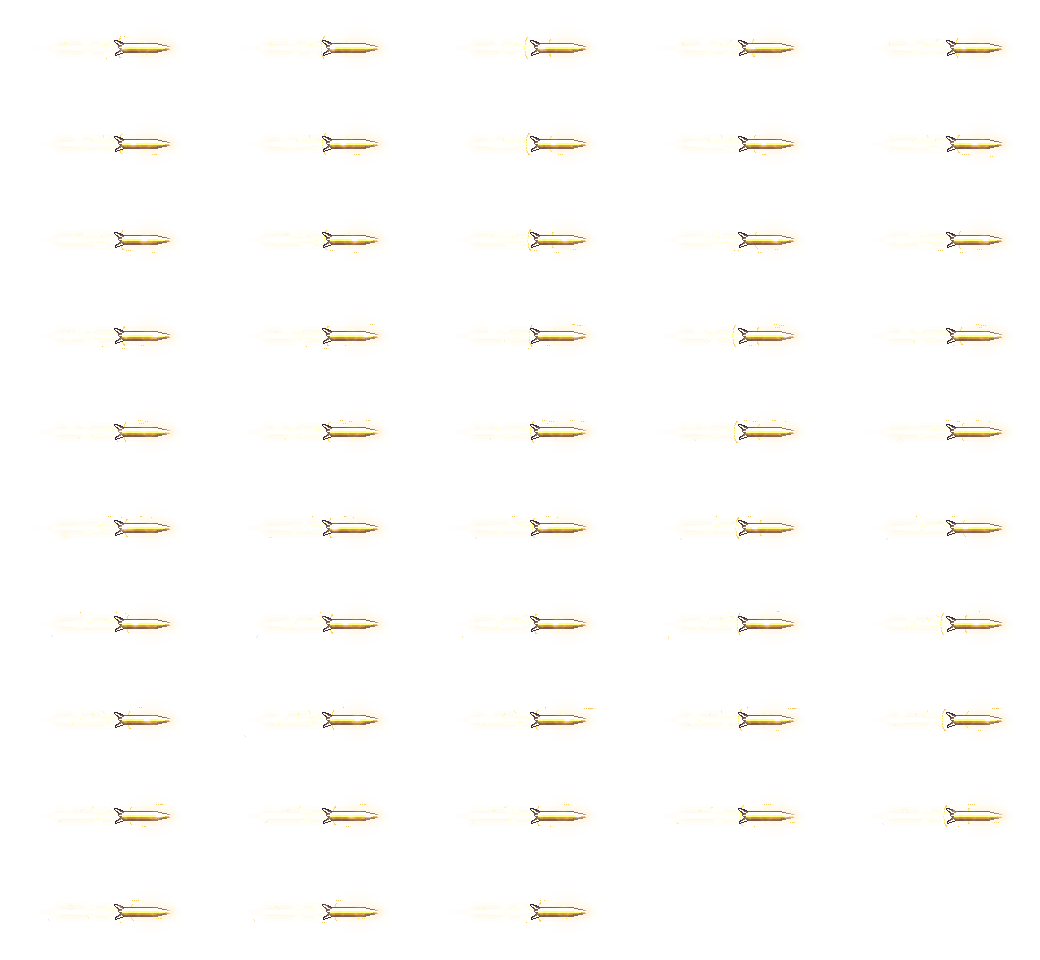
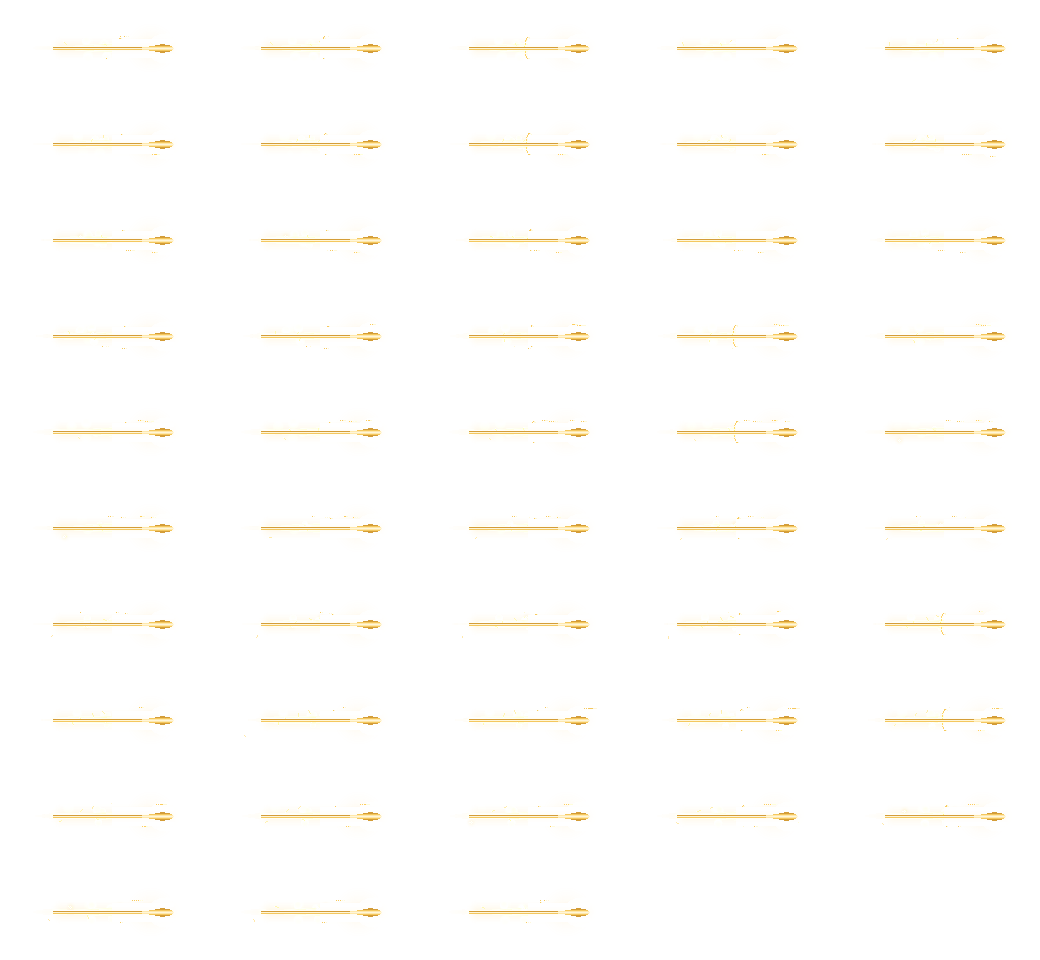
Refine Flash Executioner light spear effects

diff --git a/Art/flash-executioner/pixelfx/manual-corrections/lance/apply_spear_pixel_edit.py b/Art/flash-executioner/pixelfx/manual-corrections/lance/apply_spear_pixel_edit.py
@@ -1,0 +1,80 @@
+#!/usr/bin/env python3
+"""Apply the owner's hand-authored long/thin spear pixels to a 48-cell atlas."""
+from pathlib import Path
+import argparse
+import hashlib
+from PIL import Image
+
[1 lines of base64/hex data omitted]
+SHAFT = {
+    47: (53, 143, "#d49d38ff"),
+    48: (53, 143, "#fff6d9ff"),
+    49: (53, 143, "#f4c75eff"),
+}
+HEAD = {
+    44: (160, 164, "#d49d38ff"),
+    45: (155, 169, "#d49d38ff"),
+    46: (149, 171, "#f4c75eff"),
+    47: (142, 172, "#ffe8abff"),
+    48: (139, 173, "#fff6d9ff"),
+    49: (142, 172, "#ffe8abff"),
+    50: (149, 171, "#f4c75eff"),
+    51: (155, 169, "#d49d38ff"),
+    52: (160, 164, "#d49d38ff"),
+}
+
+
+def rgba(value):
+    return tuple(bytes.fromhex(value.lstrip("#")))
+
+
+def main():
+    parser = argparse.ArgumentParser()
+    parser.add_argument("source", type=Path, help="original approved 1040x960 RGBA atlas")
+    parser.add_argument("output", type=Path, help="new path; existing files are never overwritten")
+    args = parser.parse_args()
+    source_bytes = args.source.read_bytes()
+    if hashlib.sha256(source_bytes).hexdigest() != EXPECTED_SOURCE_SHA256:
+        raise SystemExit("Source hash mismatch; refusing to paint an unreviewed atlas")
+    if args.output.exists():
+        raise SystemExit("Output exists; choose a new review path")
+    image = Image.open(args.source).convert("RGBA")
+    if image.size != (1040, 960):
+        raise SystemExit(f"Expected 1040x960, got {image.size}")
+    for frame in range(48):
+        ox, oy = frame % 5 * 208, frame // 5 * 96
+        # Reduce the spherical tip bloom without changing the energy wake.
+        for y in range(32, 65):
+            for x in range(145, 188):
+                if ((x - 166) / 20) ** 2 + ((y - 48) / 15) ** 2 > 1:
+                    continue
+                X, Y = ox + x, oy + y
+                red, green, blue, alpha = image.getpixel((X, Y))
+                if 0 < alpha < 240:
+                    image.putpixel((X, Y), (red, green, blue, round(alpha * 0.20)))
+        # Clear the former broad blade and crossguard, preserving surrounding VFX.
+        for y in range(39, 58):
+            for x in range(112, 174):
+                X, Y = ox + x, oy + y
+                if image.getpixel((X, Y))[3]:
+                    image.putpixel((X, Y), (0, 0, 0, 0))
+        # Hand-paint a restrained warm glow under the narrow shaft so the old
+        # blade silhouette does not leave a hard transparent notch.
+        halo = {43: 6, 44: 10, 45: 16, 46: 24, 47: 32, 48: 36,
+                49: 32, 50: 24, 51: 16, 52: 10, 53: 6}
+        for y, alpha in halo.items():
+            for x in range(112, 174):
+                image.putpixel((ox + x, oy + y), (255, 232, 171, alpha))
+        # Deliberately authored 3-pixel shaft and tapered, bright point.
+        for rows in (SHAFT, HEAD):
+            for y, (x0, x1, color) in rows.items():
+                pixel = rgba(color)
+                for x in range(x0, x1 + 1):
+                    image.putpixel((ox + x, oy + y), pixel)
+    args.output.parent.mkdir(parents=True, exist_ok=True)
+    image.save(args.output)
+    print(hashlib.sha256(args.output.read_bytes()).hexdigest())
+
+
+if __name__ == "__main__":
+    main()

diff --git a/Art/flash-executioner/README.md b/Art/flash-executioner/README.md
@@ -20,9 +20,9 @@ Ultimate, idle, run, jump and fall now use the owner-reviewed motion sheets. Idl
 
 Actor sheets have192×192 cells, pivot70/133, scale1.4. `reviewed/manifest.json` records dimensions, frame counts, hashes and provenance. `review-approval.json` records the owner-reviewed additions and exact hashes. Clip rates are motion-specific: Idle 18.9 poses/s, Run 36.3 nominal poses/s, Jump 36.3 nominal poses/s, Fall 15 poses/s and Ultimate 22.3 poses/s. The runtime maps Ultimate contact to frame 16 and retains its unchanged .728s gameplay contact. All actor cells are 192×192 RGBA at pivot70/133 and scale1.4.
 
-The v2 mappings and options are in `pixelfx/manifest.json`. Original effect recipes and dependencies are byte-identical to the pinned upstream; source leaf hashes, MIT license and verification evidence are retained under `pixelfx/source-original/`. Variations use palette, exposed options, actual approved actor masks, uniform runtime scale, canvas registration and source-frame timing/selection. No new geometry recipes or hand-painted shapes were used. Each `pixelfx/variants/<Role>/` preserves a same-fps original baseline and exact frame map.
+The v2 mappings and options are in `pixelfx/manifest.json`. Original effect recipes and dependencies are byte-identical to the pinned upstream; source leaf hashes, MIT license and verification evidence are retained under `pixelfx/source-original/`. Most variations use palette, exposed options, actual approved actor masks, uniform runtime scale, canvas registration and source-frame timing/selection. The owner-requested hand-pixel Lance/SkyLance silhouette edit is documented below; their original source recipes remain unchanged. Each `pixelfx/variants/<Role>/` preserves a same-fps original baseline and exact frame map.
 
-Effects retain straight RGBA pixels. Export packing corrects upstream atlas double-premultiplication through direct RGBA byte copies; limited alpha-only entrance/exit fades and frame selections are documented. No RGB painting, body pose synthesis or geometry replacement occurs.
+Effects retain straight RGBA pixels. Export packing corrects upstream atlas double-premultiplication through direct RGBA byte copies; limited alpha-only entrance/exit fades and frame selections are documented. Owner-requested direct pixel edits now reshape all 48 Lance/SkyLance frames into a long, thin shaft and tapered spear point while keeping the projectile-tip pivot, runtime scale, timing and attack behavior. The upstream recipes remain preserved byte-for-byte as the baseline.
 
 | Event | v2 source-frame registration |
 | --- | --- |
@@ -34,7 +34,7 @@ Effects retain straight RGBA pixels. Export packing corrects upstream atlas doub
 | Generic impact | Start at collision with source age1/60s, centered on actual hit |
 | Verdict impact | Smite source tail starts after original hit; register to target feet |
 | Orbs | Complete original2.4s loop; focal offset0,+15.6 |
-| Normal/sky lances | Complete original.8s loop until collision; both natively face right, rotate by actual projectile angle |
+| Normal/sky lances | Complete original.8s loop until collision; long thin hand-edited spear pixels, both natively face right and rotate by actual projectile angle |
 
 Effect frame selection uses metadata fps directly, including endpoint samples, instead of stretching N+1 frames across the nominal duration. Extremely fast basic attacks skip only unavailable source prelude so the original visual peak still registers to gameplay contact. Effects have independent visual lifetimes, rather than clipping their tails to the combat burst's .24s. A verdict collision's simultaneous generic impact is deduplicated visually into one large verdict hit without changing either combat record. Projectile effects continue after class swap. Charge/swap effects replace their old arrival decoration intentionally.
 

diff --git a/Art/flash-executioner/pixelfx/README.md b/Art/flash-executioner/pixelfx/README.md
@@ -2,12 +2,12 @@
 All 15 roles use existing finished resources from https://github.com/patch-gg/pixelfx commit5294518ce7c72e48b6100a744596e0acf57f2826.
 No old executor custom drawKind or _lib.js recipe reused. Every effect draw/create and upstream helper/core file is byte-identical to its source. source-verification.json verifies leaf hashes against git show; source-original/ preserves the actual originals, dependencies and MIT license.
 
-Changes are palette, existing options(radius/reach/height/length/stone), supplied actual actor masks, canvas registration, uniform runtime scale, and timing/frame selection. No newly drawn primitives or painted shapes.
+Changes are palette, existing options(radius/reach/height/length/stone), supplied actual actor masks, canvas registration, uniform runtime scale, and timing/frame selection. Exception requested by the owner: `Lance` and `SkyLance` atlases are additionally edited pixel-by-pixel in `manual-corrections/lance/` to replace the broad sword silhouette with a long, thin shaft and tapered point. No AI or effect re-render was used; the exact source recipe and pre-edit atlas remain preserved.
 originals/ preserves canonical30fps original exports. Each variants/<Role>/original-60fps.png and before-after.png uses same60fps/source seed as variant, with same actual actor input for fair comparison. Canonical original packing artifact remains preserved there as historical export.
 
 Packing correction: upstream spriteSheet calls canvas.paste which multiplies RGB by alpha onto transparent atlas and retains original alpha. That produces double-premultiplied halos under standard straight-alpha blending. render-executor-v2.mjs now copies existing r.frames.clear straight RGBA bytes directly into the atlas. Before RGBA25,23,17,25 becomes correctly straight RGBA255,235,173,25. No effect source modified. packing-correction/ contains before/after light/dark comparison evidence.
 
-Command, Dash and Jump finite clips have alpha-only edge fade; exact per-frame mapping/envelope is frame-map.json. No RGB painting, geometric synthesis, actor pose interpolation or fake frame duplication. PNG frames are re-packed samples of original resources. Each atlas manifest records actual count/fps/unique pixels and terminal transparency. Loop Orb/Lance/SkyLance keep complete original loop, not old v1 flight-frame ranges.
+Command, Dash and Jump finite clips have alpha-only edge fade; exact per-frame mapping/envelope is frame-map.json. No actor pose interpolation or fake frame duplication. The lance silhouette change is literal RGBA pixel painting recorded with guarded source hash and coordinates; other PNG frames remain re-packed samples of original resources. Each atlas manifest records actual count/fps/unique pixels and terminal transparency. Loop Orb/Lance/SkyLance keep complete original loop, not old v1 flight-frame ranges.
 
 Actor inputs: BlinkOut uses approved skill3 frame10 tuck; BlinkIn uses frame12 braced arrival; Dash uses approved dash frame2. Actual pixel crops/masks are supplied through original o.actor API. Approved feet pivot70/133. Role inputJSON records source sheet hash, index, columns and bbox; source-pose-PNGs are preserved. Character artwork itself is not redrawn.
 

diff --git a/TASK_PROGRESS.md b/TASK_PROGRESS.md
@@ -162,3 +162,15 @@ Status: IMPLEMENTED — actor sheets and existing state/button bindings are conn
 - Static PNG dimension, alpha mode, runtime/source byte hash and manifest-count checks passed: 27 runtime sheets (12 actors + 15 effects).
 - No tests, builds, game/device playback or GitHub Actions were run in this integration turn. Owner previously reported trying the motions and finding playback acceptable; both-facing/device verification remains outstanding.
 - GitHub main head at integration start: `74a224e4f832075a19a9dca14a2f001e55166ea2`.
+
+
+## 2026-11-13 — Owner-requested light spear effect revision
+
+Status: IMPLEMENTED — all existing effect roles remain in runtime; Lance/SkyLance now use the manually revised spear silhouette.
+
+- Verified all15 active Flash Executioner effect roles already had runtime PNGs and `FlashFx` descriptors from the preceding main update; no extra unbound effect candidates were present.
+- Manually edited each of the48 frames in both Lance and SkyLance atlases. Removed the old blade/guard pixels, softened the round tip halo, painted a3px-long shaft and a tapered point, and kept the existing tip pivot, scale, loop, angle and combat timing. Both roles share the same edited PNG bytes.
+- Preserved pre-edit atlases and created a reproducible guarded pixel-edit script at `Art/flash-executioner/pixelfx/manual-corrections/lance/`. Upstream JS recipes and original source hashes remain unchanged.
+- Updated runtime PNGs, reviewed sources, approval hashes, PixelFX manifest, project documentation and audit record.
+- Static review at 1x and 4x confirms the long shaft and pointed tip; all15 effects remain active. The script reproduces the runtime atlas SHA exactly.
+- No tests, builds, game/device playback or GitHub Actions were run.
